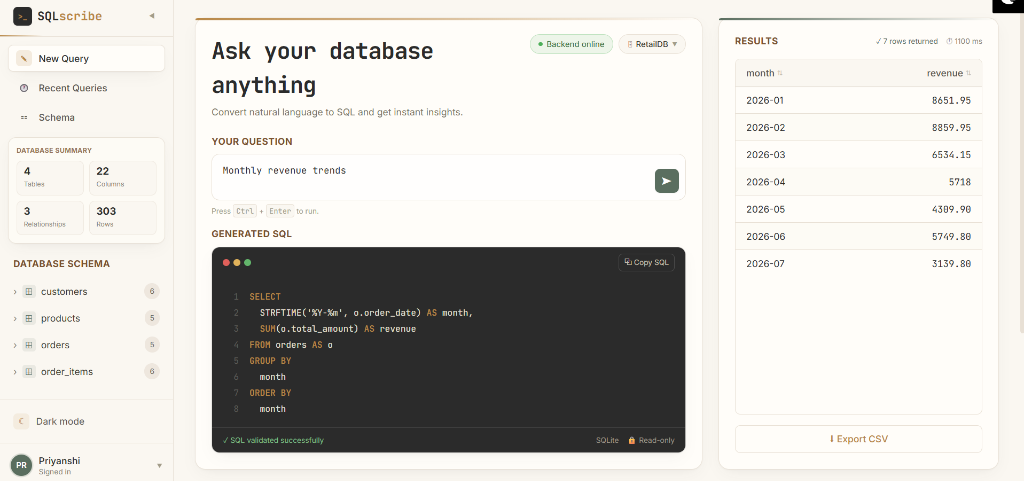
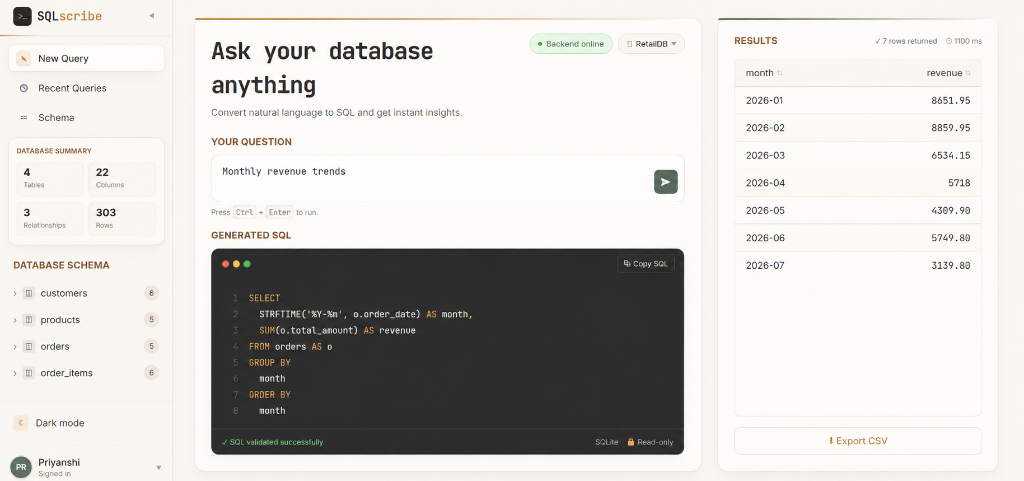
Fix image paths and reorder table schema description before ER diagram

diff --git a/README.md b/README.md
@@ -19,9 +19,9 @@
 
 <br/>
 
-| 🗺 Entity Relationship Diagram | 📋 Table & Schema Descriptions |
+| 📋 Table & Schema Descriptions | 🗺 Entity Relationship Diagram |
 | :---: | :---: |
-| ![ER Diagram Visualizer](docs/er-diagram.png) | ![Table & Schema Descriptions](docs/table-description.png) |
+| ![Table & Schema Descriptions](docs/table-description.png) | ![ER Diagram Visualizer](docs/er-diagram.png) |
 
 <br/>
 
